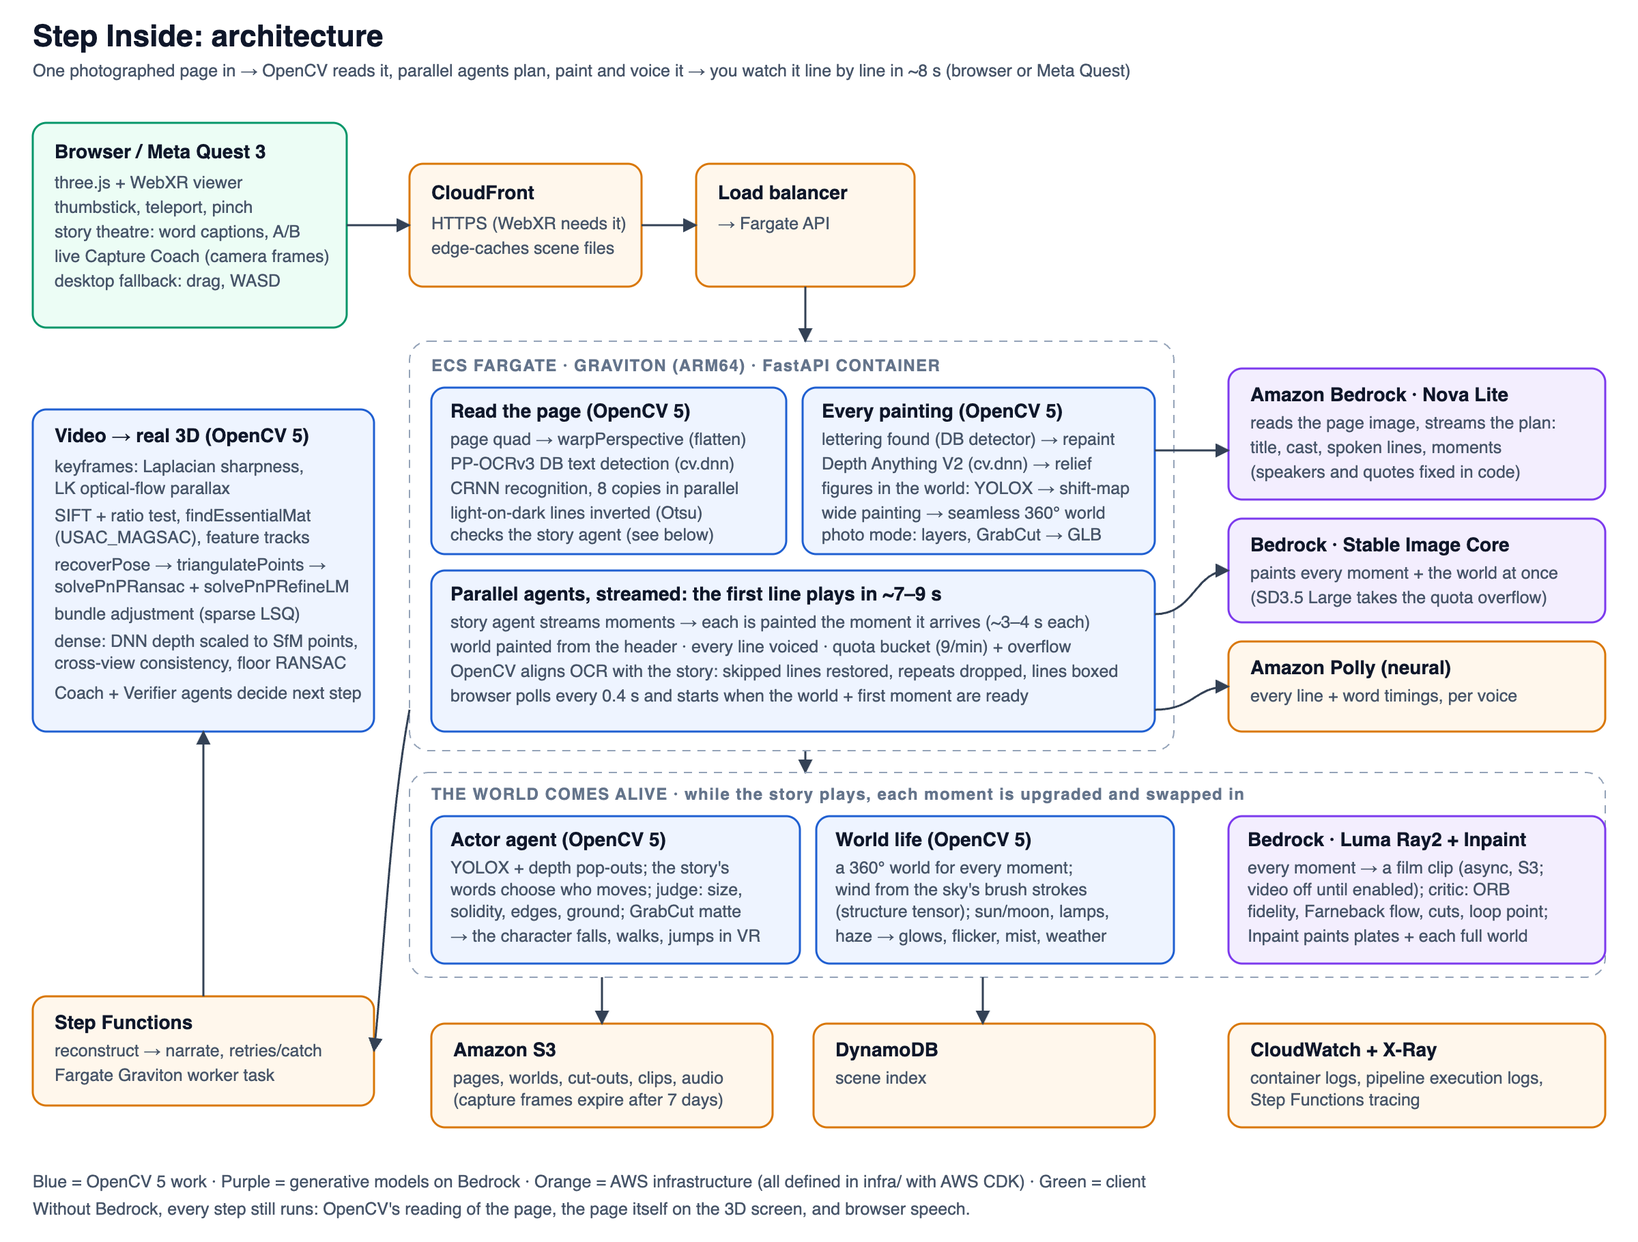
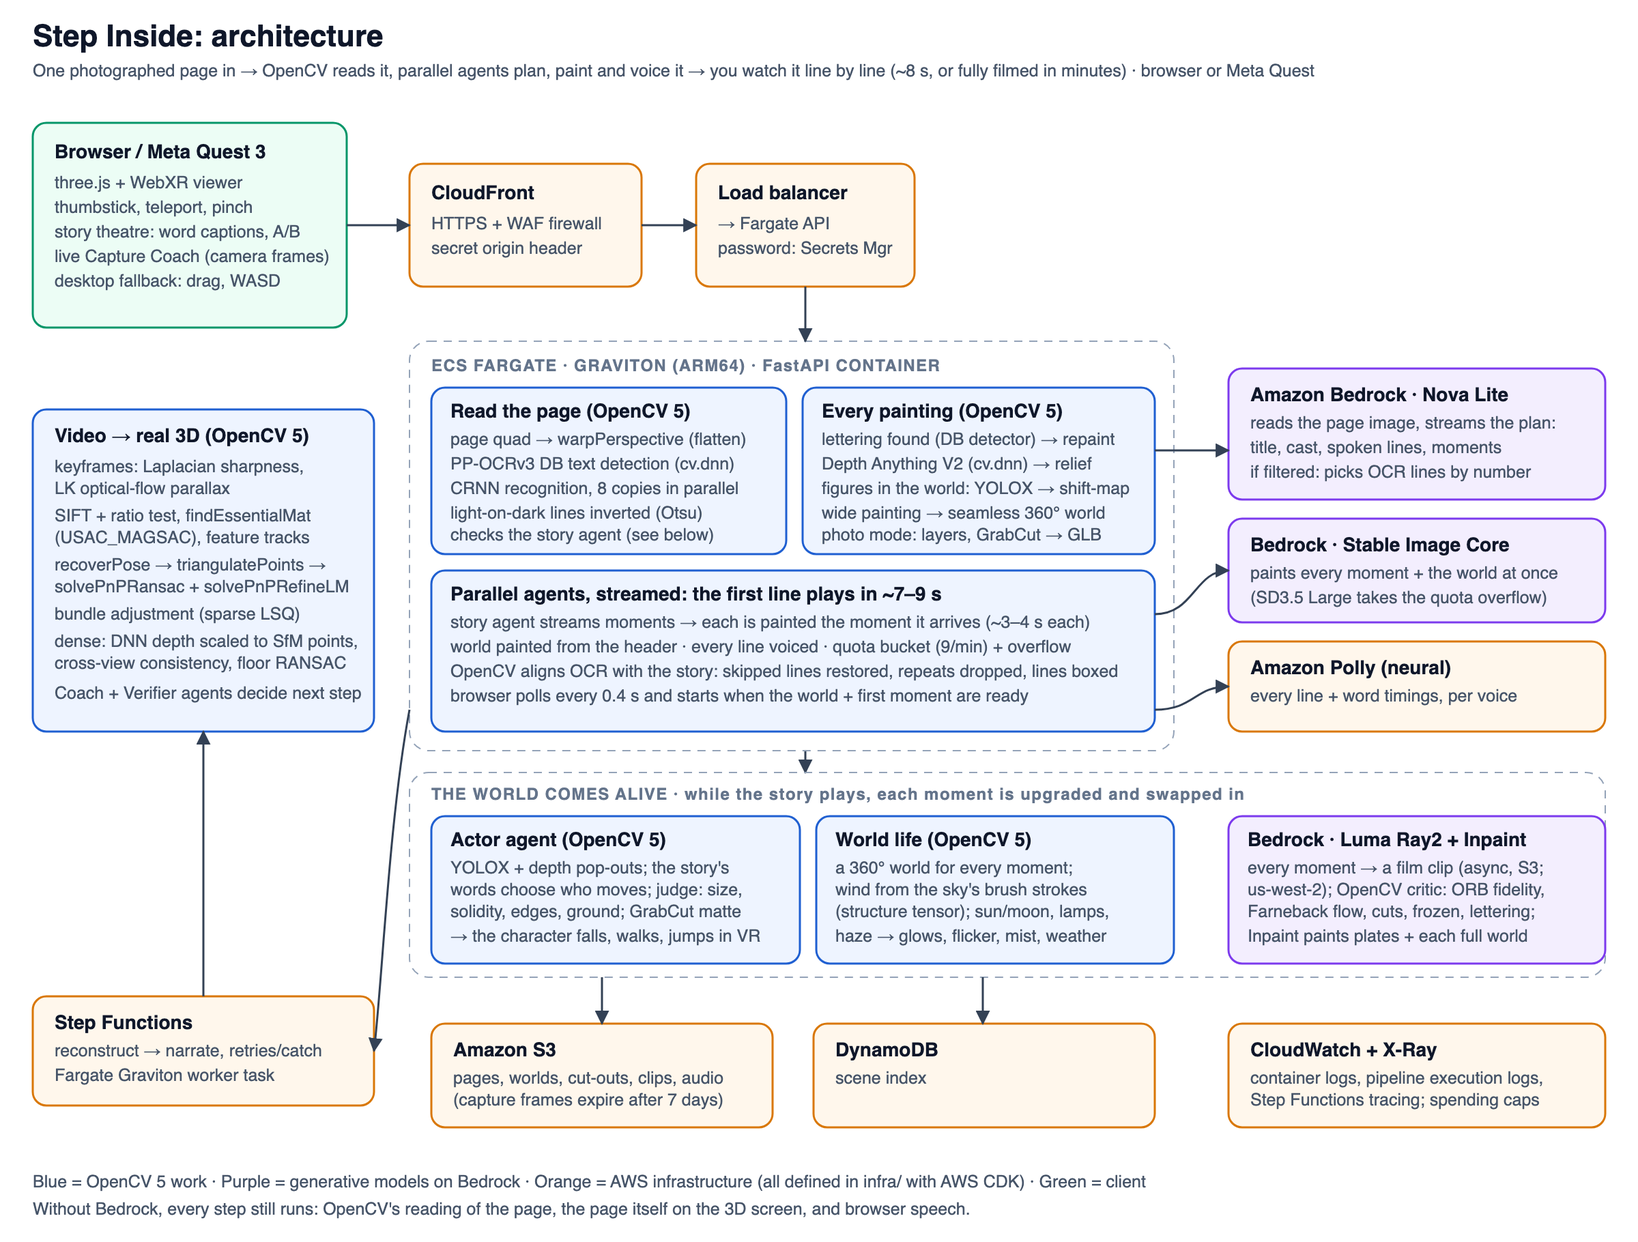
chnages

diff --git a/web/app.js b/web/app.js
@@ -422,8 +422,31 @@ function frameBlob(video, side) {
   return new Promise((r) => c.toBlob(r, "image/jpeg", 0.88));
 }
 
+/** Show the captured photo and wait for "Use this page" (true) or "Retake" / Cancel (false). */
+function confirmPage(blob, tell) {
+  const still = $("#look-still"), ask = $("#look-confirm"), url = URL.createObjectURL(blob);
+  still.src = url;
+  still.hidden = ask.hidden = false;
+  $("#look-box").hidden = true;
+  tell("Is this the page? Tap “Use this page” or “Retake”.");
+  return new Promise((done) => {
+    const finish = (ok) => {
+      still.hidden = ask.hidden = true;
+      still.removeAttribute("src");
+      URL.revokeObjectURL(url);
+      $("#look-use").onclick = $("#look-retake").onclick = null;
+      if (look) look.confirm = null;
+      done(ok);
+    };
+    $("#look-use").onclick = () => { tell("Bringing it to life…"); finish(true); };
+    $("#look-retake").onclick = () => { tell("Show me the page again."); finish(false); };
+    if (look) look.confirm = finish;
+  });
+}
+
 function stopLook() {
   if (!look) return;
+  look.confirm?.(false);
   look.running = false;
   look.stream.getTracks().forEach((t) => t.stop());
   look = null;
@@ -487,12 +510,17 @@ $("#look-start").onclick = async () => {
       return;
     }
     local.good = res.quality.ok ? local.good + 1 : 0;
-    if (local.good >= 2) { // readable two frames in a row: take the full-size photo
-      tell("Got it! Bringing it to life…");
+    if (local.good >= 2) { // readable two frames in a row: take the full-size photo, then ask before making a story
       const page = await frameBlob(video, 2048);
-      stopLook();
-      send("page", page, "camera.jpg");
-      return;
+      if (!local.running) return;
+      if (await confirmPage(page, tell)) {
+        stopLook();
+        send("page", page, "camera.jpg");
+        return;
+      }
+      if (!local.running) return;
+      local.good = 0;
+      continue;
     }
     tell(res.quality.ok ? "Hold still…" : res.quality.say);
     await sleep(200);

diff --git a/web/index.html b/web/index.html
@@ -40,8 +40,8 @@
 
     <section class="hero">
       <h1>Live the story.</h1>
-      <p class="lede">Show it one page: a poem, a picture book, a screenshot. Moments later you're standing inside it,
-        painted all around you, every line read aloud. On screen, or in a VR headset.</p>
+      <p class="lede">Step Inside turns any story page into a narrated, filmed 360° world you can walk into, on screen
+        or in VR. Just upload a page or capture one from a storybook, and in a few minutes you're living the story.</p>
       <div class="actions">
         <button id="look-start" type="button" class="action lead">
           <span class="icon" aria-hidden="true">📷</span><span class="what">Scan with camera</span>
@@ -74,8 +74,13 @@
       <div id="look-overlay" class="look" hidden>
         <video id="look-video" playsinline muted></video>
         <div id="look-box" class="look-box" hidden></div>
+        <img id="look-still" class="look-still" alt="The captured page" hidden>
         <div class="look-hud">
           <p id="look-say" role="status" aria-live="assertive">Starting the camera…</p>
+          <div id="look-confirm" class="look-confirm" hidden>
+            <button id="look-use" type="button" class="action lead">✓ Use this page</button>
+            <button id="look-retake" type="button" class="pill">Retake</button>
+          </div>
           <button id="look-stop" type="button" class="pill">Cancel</button>
         </div>
       </div>

diff --git a/web/style.css b/web/style.css
@@ -129,6 +129,9 @@ button:focus-visible, .action:focus-within { outline: 3px solid var(--gold); out
 .look-box { position: absolute; border: 3px solid var(--gold); border-radius: 10px; box-shadow: 0 0 0 9999px rgba(0, 0, 0, .3);
   transition: all .25s ease, border-color .2s; pointer-events: none; }
 .look-box.ok { border-color: var(--ok); }
+.look-still { position: absolute; inset: 0; width: 100%; height: 100%; object-fit: contain; background: #000; }
+.look-confirm { display: flex; gap: 12px; flex-wrap: wrap; justify-content: center; }
+.look-confirm[hidden] { display: none; }
 @media (max-width: 640px) { .topbar { flex-wrap: wrap; } .title { order: 3; flex-basis: 100%; } .drawer { top: 110px; } }
 .shots small.clip { display: block; color: var(--gold, #ffd36b); margin-top: 2px; }
 .shots li[data-playing="actor"] > span::before { content: "🎭 "; }

diff --git a/agents/planner.py b/agents/planner.py
@@ -46,10 +46,12 @@ short illustrated film that a viewer watches inside VR, line by line. Output JSO
 line, no prose, no code fences, no blank lines.
 
 Line 1, the header:
-{{"title": at most 6 words, "style": how every picture is painted (if the page has artwork, describe its medium,
-palette and line work; otherwise choose a style that suits the text, e.g. "{DEFAULT_STYLE}"), "place": the main
+{{"title": at most 6 words, "style": how every picture is painted, at most 30 words. If the page has a picture, describe
+what YOU SEE in it, in your own words: its medium, outline weight, palette and how figures are drawn. Only for a page
+with no picture, choose a style that suits the text, "place": the main
 place where it happens, as scenery seen all around, at most 40 words, no people or animals, "cast": [{{"name": ...,
-"look": fixed appearance in at most 20 words (species, age, clothes, colours), "voice": "woman" | "man" | "child"}}],
+"look": fixed appearance in at most 20 words (species, age, clothes, colours), as drawn in
+the page's picture when the character appears there; every character looks different from the others, "voice": "woman" | "man" | "child"}}],
 "time": "day" | "night" | "dusk" | "dawn", "weather": "clear" | "clouds" | "rain" | "snow" | "storm" | "fog",
 "wind": "still" | "breeze" | "gusty"}}
 
@@ -68,8 +70,8 @@ ALL of the page's story text exactly once and in order; on a long page put sever
   character (two at most) doing what the lines say, filling the frame, with the place behind them; who is there
   (use cast names with their looks), the light and mood. Never a wide crowd, a stage full of people or a tiny figure
   in a big landscape: the picture will be filmed, and the character must be big enough to act. Literal and concrete: "when the blazing sun is gone"
-  is a sunset over the hills; "the traveller in the dark" is a traveller on a night road. Follow the words, not the
-  page's own picture, and make every moment look different from the others (new scene, view or action). No text,
+  is a sunset over the hills; "the traveller in the dark" is a traveller on a night road. Follow the words for what
+  happens, the page's picture for how characters look, and make every moment look different from the others (new scene, view or action). No text,
   letters or words in the picture.
 - effects: zero or more of "stars", "snow", "rain", "fireflies", "leaves", "sparkles" for ambient motion that fits.
 - action: the ONE movement these lines describe, which the viewer will see happen: "subject" is who or what moves
@@ -439,8 +441,10 @@ in VR. OpenCV has already read the page's printed lines; they are listed, number
 the page's text: refer to its lines by number. Output JSON Lines only, one object per line, no prose, no fences.
 
 Line 1, the header:
-{{"title": at most 6 words, "style": how every picture is painted, "place": the main place as scenery seen all
-around (at most 40 words, no people), "cast": [{{"name", "look": fixed appearance in at most 20 words, "voice":
+{{"title": at most 6 words, "style": how every picture is painted, at most 30 words: if the page has a picture,
+describe what YOU SEE in it (medium, outlines, palette, how figures are drawn), "place": the main place as scenery seen all
+around (at most 40 words, no people), "cast": [{{"name", "look": fixed appearance in at most 20 words, copied from
+the page's picture when the character is drawn there, "voice":
 "woman" | "man" | "child"}}], "time": "day" | "night" | "dusk" | "dawn", "weather": "clear" | "clouds" | "rain" |
 "snow" | "storm" | "fog", "wind": "still" | "breeze" | "gusty", "skip": [numbers of lines that are not the story:
 titles, author and illustrator credits, copyright notes, page numbers, headers], "fixes": {{"misread words as
@@ -583,6 +587,9 @@ def _is_title(line: str) -> bool:
 def _looks_like_text(line: str) -> bool:
     """Drop OCR lines that are decoration or junk: too short, or mostly not letters."""
     letters = sum(ch.isalpha() for ch in line)
+    words = re.findall(r"[A-Za-z']+", line)
+    if words and (sum(map(len, words)) / len(words) < 2.5 or max(map(len, words)) < 4):
+        return False  # OCR shreds of a drawing ("a a a a the han t")
     return letters >= 3 and letters / max(1, len(line.replace(" ", ""))) > 0.6
 
 

diff --git a/vision/clip.py b/vision/clip.py
@@ -27,7 +27,7 @@ SSIM_W = 320
 T = dict(fidelity_inliers=40, fidelity_share=0.2, fidelity_ssim=0.8, text_limit=0.004, new_figures=3, figure_score=0.45,
          min_subject_speed=0.02, frozen_speed=0.01, net_move=0.08, wrong_way=0.05, jump_lift=0.05, sway_drift=0.05, sway_reversals=2,
          camera_speed=0.03, camera_ratio=0.6, cut_ssim=0.45, cut_drop=0.3, cut_hist=0.35,
-         loop_diff=10.0, loop_ssim=0.75, loop_min_s=2.0)
+         loop_diff=10.0, loop_ssim=0.75, loop_min_s=2.0, continuity_inliers=40)
 FIGURE_NAMES = {"person", "dog", "cat", "horse", "sheep", "cow", "teddy bear", "bird", "elephant", "bear"}
 
 
@@ -108,6 +108,12 @@ def _inliers(a: np.ndarray, b: np.ndarray) -> int:
     dst = np.float32([kb[m.trainIdx].pt for m in good])
     _, mask = cv.findHomography(src, dst, cv.RANSAC, 6.0)
     return int(mask.sum()) if mask is not None else 0
+
+
+def _pair(still: np.ndarray, frame: np.ndarray) -> tuple[np.ndarray, np.ndarray]:
+    """The painting and a clip frame at the same working size."""
+    frame = cv.resize(frame, (FLOW_W * 2, round(frame.shape[0] * FLOW_W * 2 / frame.shape[1])))
+    return cv.resize(still, (frame.shape[1], frame.shape[0]), interpolation=cv.INTER_AREA), frame
 
 
 def fidelity(still: np.ndarray, first: np.ndarray) -> dict:
@@ -271,6 +277,12 @@ def verify(still: np.ndarray, mp4: bytes, action: dict, actor_box: list | None =
     fid = fidelity(still, fr.colour[0]) if from_still else {"inliers": None, "own": None, "ssim": None, "ok": True}
     if not fid["ok"]:
         reasons.append("it does not start from the painting")
+    # Frame 0 is the painting itself (the video model is handed it), so it always matches. A clip that morphs into
+    # another scene, or that something fills, has lost the painting by its middle or end: real clips that did that
+    # kept 4-14 matches; the weakest clip that still looked right kept 58.
+    later = [_inliers(*_pair(still, fr.colour[i])) for i in (len(fr.colour) // 2, -1)] if from_still else []
+    if later and min(later) < T["continuity_inliers"]:
+        reasons.append("it turns into a different scene")
     text = lettering(fr.full)
     if text > T["text_limit"]:
         reasons.append("letters appeared in the picture")
@@ -296,7 +308,7 @@ def verify(still: np.ndarray, mp4: bytes, action: dict, actor_box: list | None =
         loops = False  # a fall ends somewhere else: hold its last frame rather than replay it
     ok = not reasons
     return {"ok": ok, "retry": (not ok) or retry, "reasons": reasons, "observed": observed,
-            "scores": {"fidelity_inliers": fid["inliers"], "fidelity_own": fid["own"], "fidelity_ssim": fid["ssim"],
+            "scores": {"fidelity_inliers": fid["inliers"], "continuity_inliers": min(later) if later else None, "fidelity_own": fid["own"], "fidelity_ssim": fid["ssim"],
                        "text_cover": round(text, 4),
                        "figures_still": fig_still, "figures_max": fig_max, **t, "cuts": n_cuts,
                        "loop_diff": lp["diff"], "loop_ssim": lp["ssim"]},

diff --git a/vision/tests/test_live.py b/vision/tests/test_live.py
@@ -576,3 +576,53 @@ def test_a_blocked_story_agent_hands_over_to_lines_mode(monkeypatch, tmp_path):
     assert calls and "rabbit" in " ".join(calls[0]).lower()  # lines mode got OpenCV's reading
     assert st["title"] == "The Rabbit" and "lines mode" in st["models"]["planner"]
     assert st["shots"][0]["action"]["path"] == "sway"
+
+
+def test_a_throttled_story_agent_also_tries_lines_mode_before_the_raw_reading(monkeypatch, tmp_path):
+    """The Tortoise worksheet (Oct 26): the agent failed with something other than the filter, and the story played
+    OpenCV's raw reading. Any failure now gets lines mode first."""
+    from agents import planner
+    from server.live import Live
+    from server.storage import LocalStore
+    monkeypatch.setenv("STEP_INSIDE_LLM", "off")
+    monkeypatch.setattr(planner, "enabled", lambda: True)  # only the story agent "exists"; painter and voice stay off
+    calls = []
+
+    def throttled(page_jpg, on_header, on_shot, line_count=0):
+        raise planner.LLMUnavailable("ThrottlingException")
+
+    def lines_mode(page_jpg, ocr_lines, on_header, on_shot, send_header=True):
+        calls.append(1)
+        if len(calls) == 1:
+            raise planner.LLMUnavailable("ThrottlingException")  # the first retry is throttled too
+        on_header({**planner.clean_header({}), "title": "The Hare"})
+        on_shot({"text": ["The hare ran off."], "speaker": ["Narrator"], "see": "a hare", "effects": [],
+                 "action": {"subject": "hare", "motion": "runs", "path": "walk-right", "loop": False}})
+
+    monkeypatch.setattr(planner, "plan", throttled)
+    monkeypatch.setattr(planner, "plan_from_lines", lines_mode)
+    page = np.full((900, 700, 3), 240, np.uint8)
+    cv.putText(page, "The hare ran off.", (60, 400), cv.FONT_HERSHEY_DUPLEX, 1.6, (30, 30, 30), 3, cv.LINE_AA)
+    live = Live(LocalStore(tmp_path))
+    st = live.submit(page)
+    for _ in range(120):
+        st = live.get(st["id"])
+        if st["status"] != "running":
+            break
+        time.sleep(0.25)
+    assert len(calls) == 2 and st["title"] == "The Hare" and "lines mode" in st["models"]["planner"]
+
+
+def test_ocr_shreds_of_a_drawing_are_not_read_aloud():
+    from agents.planner import fallback_plan
+    _, shots = fallback_plan(["Once, there was a hare who told everyone how fast", "a a a a", "the han t", "he could run,",
+                              "the race"])
+    lines = [ln for s in shots for ln in s["text"]]
+    assert "a a a a" not in lines and "the han t" not in lines and "he could run," in lines and "the race" in lines
+
+
+def test_the_story_agent_is_told_to_copy_the_pages_own_art():
+    from agents.planner import DEFAULT_STYLE, SYSTEM, SYSTEM_LINES
+    assert DEFAULT_STYLE not in SYSTEM  # the default used to be the example, and the model copied it
+    assert "what YOU SEE" in SYSTEM and "what YOU SEE" in SYSTEM_LINES
+    assert "the page's picture for how characters look" in SYSTEM

diff --git a/server/live.py b/server/live.py
@@ -368,11 +368,12 @@ class Live:
             except LLMUnavailable as e:
                 with self.lock:
                     have = bool(st["shots"])
-                if not have and isinstance(e, planner.ContentFiltered):
-                    # A published page: the model may not copy it. Ask again with OpenCV's numbered lines, so the
-                    # model only points at lines (and fixes misread words); the words themselves come from OpenCV.
-                    log.warning("story agent blocked by the content filter; asking again in lines mode")
-                    sent_header = e.header_sent
+                if not have and (isinstance(e, planner.ContentFiltered) or planner.enabled()):
+                    # Blocked (a published page the model may not copy), throttled or unparseable: ask again with
+                    # OpenCV's numbered lines, so the model only points at lines and fixes misread words; the words
+                    # themselves come from OpenCV. Only if that fails too does the raw reading play.
+                    log.warning("story agent failed (%s); asking again in lines mode", e)
+                    sent_header = getattr(e, "header_sent", False)
                     for attempt in (1, 2):  # the filter is not deterministic: one more try is often enough
                         try:
                             planner.plan_from_lines(
@@ -388,9 +389,9 @@ class Live:
                             break
                         except planner.ContentFiltered as e2:
                             log.warning("lines mode blocked too (attempt %d): %s", attempt, e2)
-                        except LLMUnavailable as e2:
-                            log.warning("lines mode failed (%s)", e2)
-                            break
+                        except LLMUnavailable as e2:  # throttled or a broken reply: one more try, after a breath
+                            log.warning("lines mode failed (attempt %d): %s", attempt, e2)
+                            time.sleep(2)
                 if not have:
                     log.warning("story agent unavailable (%s); planning from OpenCV's reading", e)
                     header, shots = planner.fallback_plan([ln["text"] for ln in ocr])
@@ -802,6 +803,8 @@ class Live:
                 return
             if not (verdict["retry"] and attempt <= ANIMATE_RETRIES):
                 break
+            if verdict.get("observed") == "nothing" and (shot.get("action") or {}).get("path", "still") == "still":
+                break  # a frozen take of a quiet moment: a second take gets the same prompt, so keep the painting
         with self.lock:
             last = clip["tries"][-1]["verdict"] if clip["tries"] else None
             clip.update(status="rejected", verdict=last,

diff --git a/vision/tests/test_clip.py b/vision/tests/test_clip.py
@@ -160,3 +160,18 @@ def test_a_walk_in_either_direction_is_the_action():
     observed, retry, reasons = critic.classify("walk-left", {**t, "dx": 0.2})
     assert observed == "walk-right" and reasons == []
     assert critic.classify("walk-right", {**t, "dx": 0.01})[0] == "unclear"
+
+
+def test_a_clip_that_turns_into_another_scene_is_rejected(tmp_path, base):
+    """The minister story (Oct 26): a man at a desk became two men standing over one second; frame 0 matched the
+    painting (815 features) and nothing caught it. The middle and last frames are now compared too."""
+    other = cv.GaussianBlur(np.random.default_rng(3).integers(0, 255, (H, W, 3), dtype=np.uint8), (0, 0), 2)
+    frames = [_frame(base, 300, 100) if i < 30 else _frame(other, 300, 100) for i in range(96)]
+    for i in range(30, 42):  # a slow morph, not a cut
+        a = (i - 29) / 13
+        frames[i] = cv.addWeighted(_frame(base, 300, 100), 1 - a, _frame(other, 300, 100), a, 0)
+    v = critic.verify(frames[0], _write(tmp_path / "m.mp4", frames), {"path": "still"})
+    assert "it turns into a different scene" in v["reasons"] and v["scores"]["continuity_inliers"] < 40
+    steady = [_frame(base, 300 + i, 100) for i in range(96)]
+    ok = critic.verify(steady[0], _write(tmp_path / "s.mp4", steady), {"path": "walk-right"})
+    assert "it turns into a different scene" not in ok["reasons"] and ok["scores"]["continuity_inliers"] >= 40

diff --git a/docs/report.md b/docs/report.md
@@ -238,10 +238,26 @@ stayed still; daytime scenes: grass, flowers and bushes sway, houses and charact
 - **Sun detector:** at first it accepted a bright overcast patch about 40° wide as the sun; the blob is now limited
   to 0.6% of the image.
 
+**Review of the last three stories (Oct 26, evening), and what changed.**
+- **The paintings never matched the page.** In 10 of 11 stories the style was the prompt's own example text,
+  copied by the model. A cartoon boy became a realistic bearded man. The prompts now ask the agent to describe
+  what it sees in the page's picture, with no example to copy, and to draw each character as the page does.
+  Re-run on three real pages, each got its own description, and the king and minister got different looks.
+- **A worksheet played OpenCV's raw reading**, including shreds such as "a a a a the han t". The story agent had
+  failed with something other than the content filter, and only filter blocks used to get lines mode. Any failure
+  now gets lines mode (2 tries), and lines that are mostly one- and two-letter fragments are no longer read aloud.
+- **A clip that turned into another scene was accepted.** Fidelity compared the painting with frame 0 only, which
+  the video model copies from the painting, so it always passed (815 matches). The critic now also counts ORB +
+  RANSAC matches between the painting and the clip's middle and last frames. Calibration on all 57 real clip files on
+  disk: clips that morphed into another scene or were filled by something kept 4–14 matches; the weakest clip that
+  still looked right kept 58. Threshold: 40, the same minimum the first-frame check uses.
+- **Two frozen takes were paid for** on one quiet moment. A frozen take of a "still" moment is no longer retried,
+  because the second take gets the same prompt.
+
 **3D reconstruction** (`python -m eval.sfm_accuracy`, rendered room with exact ground truth): 24/24 keyframes
 placed, 0.145 px median reprojection error, camera path error 0.05 cm mean, 354k dense points (99.2% agreed).
 
-**Tests** (`uv run pytest`, 99): the streamed-object splitter (chunks, nesting, malformed objects); the reading
+**Tests** (`uv run pytest`, 108): the streamed-object splitter (chunks, nesting, malformed objects); the reading
 check (skipped lines found, slips fixed, logos/links ignored); the quota bucket; the world seam; the lettering
 check; light-on-dark posters; the live API end to end without models; the story queue cap; actions folded into
 paths; the actor agent and its judge; world life (wind, sun, lamps, haze); the clip critic; the animator's
